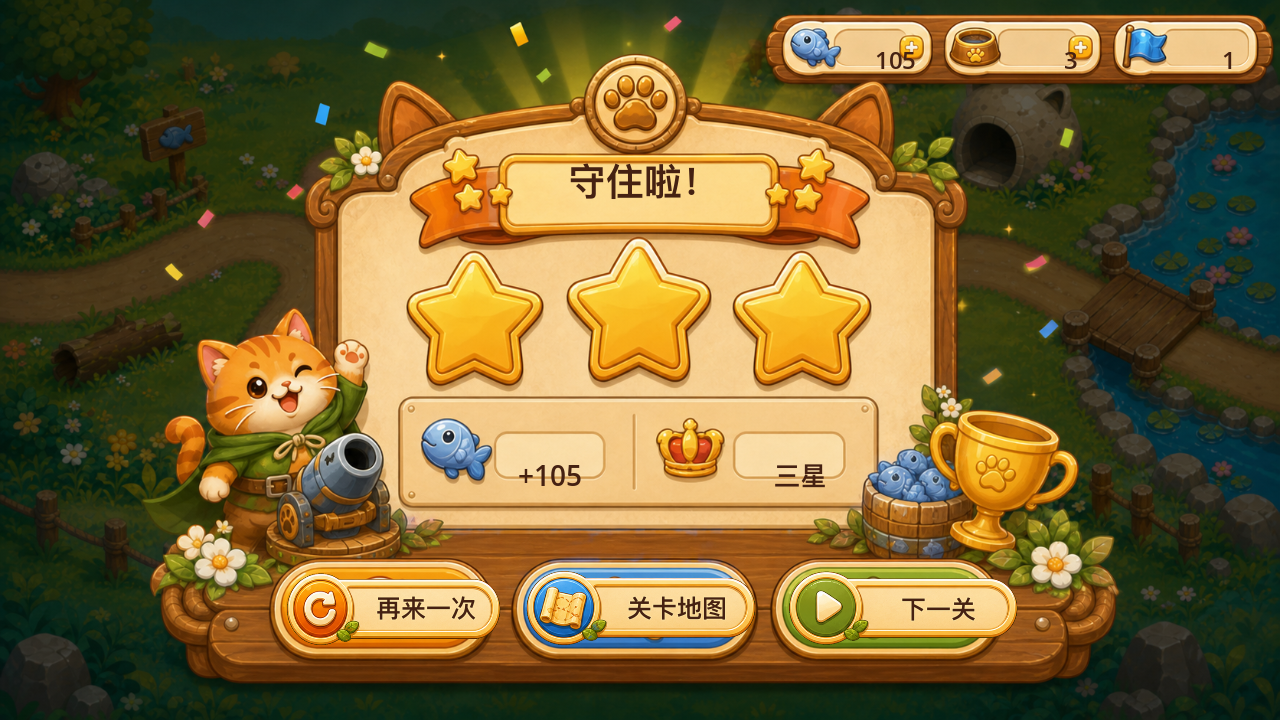
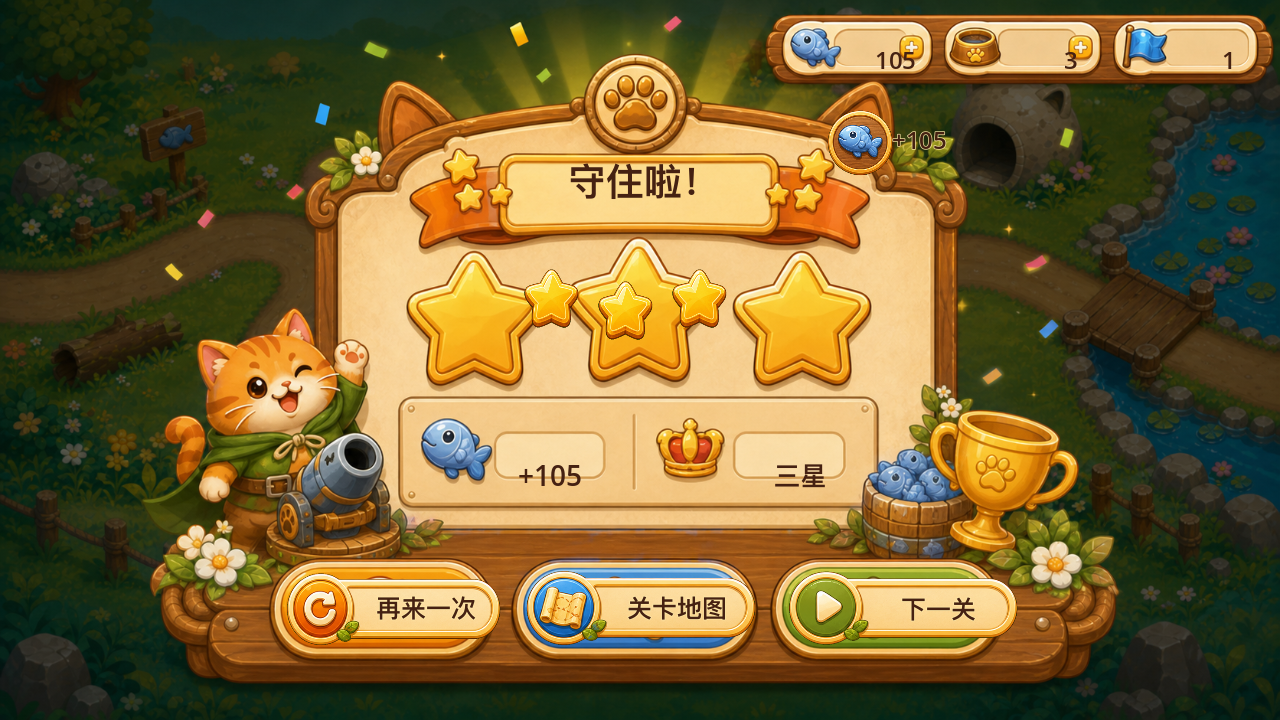
Add result reward celebration animation

Changed region(s): [[0.4062, 0.3667, 0.5938, 0.4889], [0.625, 0.1528, 0.75, 0.2444]]

diff --git a/artifacts/campaign_asset_inventory.md b/artifacts/campaign_asset_inventory.md
@@ -150,9 +150,9 @@ Final project assets are copied into categorized folders under `/Users/zhaok/cat
 - `result_button_green`: `/Users/zhaok/cat/assets/generated/ui/result_button_green.png`
   Role: transparent next-level button frame used by `ResultNextFrame`.
 - `result_star_badge`: `/Users/zhaok/cat/assets/generated/ui/result_star_badge.png`
-  Role: star badge retained for future animated reward fly-in effects.
+  Role: Image2 star badge used by the victory result reward celebration animation.
 - `result_fish_chip`: `/Users/zhaok/cat/assets/generated/ui/result_fish_chip.png`
-  Role: fish reward chip retained for future animated reward count-up effects.
+  Role: Image2 fish reward chip used by the victory result reward pulse animation.
 - `level_001_thumb`: `/Users/zhaok/cat/assets/generated/ui/level_001_thumb.png`
 - `level_002_thumb`: `/Users/zhaok/cat/assets/generated/ui/level_002_thumb.png`
 - `level_003_thumb`: `/Users/zhaok/cat/assets/generated/ui/level_003_thumb.png`

diff --git a/design-qa.md b/design-qa.md
@@ -125,6 +125,7 @@ final result: passed
 - Generated `/Users/zhaok/cat/assets/generated/ui/result_screen_asset_sheet_source.png` and cropped transparent result button, panel, resource, star, and fish reward assets.
 - Replaced the old code-drawn `ResultPanel`, `ResourceStrip`, and right-side result button layout with the full-screen Image2 result design plus bottom Image2 action frames and transparent hit areas.
 - Kept retry, level-map, next-level, fish reward, best stars, and progress behavior intact while adding button press feedback through the shared Image2 feedback helper.
+- Added `ResultRewardCelebrationLayer` for wins, using Image2 `result_star_badge.png` and `result_fish_chip.png` as reward pulse/fly-in pieces without changing the full-screen result design background.
 - Added `/Users/zhaok/cat/tests/run_result_screen_tests.gd` to require the Image2 result design/buttons and reject the old result panel/resource strip.
 - Latest screenshot: `/Users/zhaok/cat/artifacts/result_screen.png`.
 
@@ -132,6 +133,7 @@ final result: passed
 - Generated and archived `/Users/zhaok/cat/assets/generated/ui/result_screen_defeat_design_reference.png` as the full-page failed-level result design reference.
 - Failed result now uses `RESULT_SCREEN_DEFEAT_DESIGN` while victory continues using `RESULT_SCREEN_DESIGN`.
 - Defeat next-level slot uses the Image2 background's locked button visual plus a disabled transparent hit area, avoiding a victory `ResultNextFrame` overlay.
+- Defeat result explicitly skips `ResultRewardCelebrationLayer`, so reward pulse/fly-in feedback remains victory-only.
 - Added `/Users/zhaok/cat/tests/run_result_defeat_screen_tests.gd` to require the defeat design, disabled next-level action, and no progress reward on failure.
 - Added `/Users/zhaok/cat/tests/capture_result_defeat_screen.gd` to regenerate the failed-level screenshot.
 - Latest screenshot: `/Users/zhaok/cat/artifacts/result_defeat_screen.png`.

diff --git a/README.md b/README.md
@@ -15,6 +15,7 @@
 - 明确的地图 `+` 建造按钮，支持真实玩家点击建塔
 - 已建猫塔可点击打开 Image2 管理面板，支持升级和出售返还鱼干
 - 战斗 HUD 支持下一波敌人预告和 1x/2x 加速切换
+- 胜利结果页带有 Image2 星星和鱼干奖励脉冲动效，失败页不会播放胜利奖励反馈
 - 成就页可按进度领取小鱼干和猫爪徽章，背包会显示徽章数量
 - 商店可购买毛线陷阱包，背包会显示持有数量
 - 战斗中可使用背包里的毛线陷阱减速小鼠，并带有 Image2 毛线缠绕特效